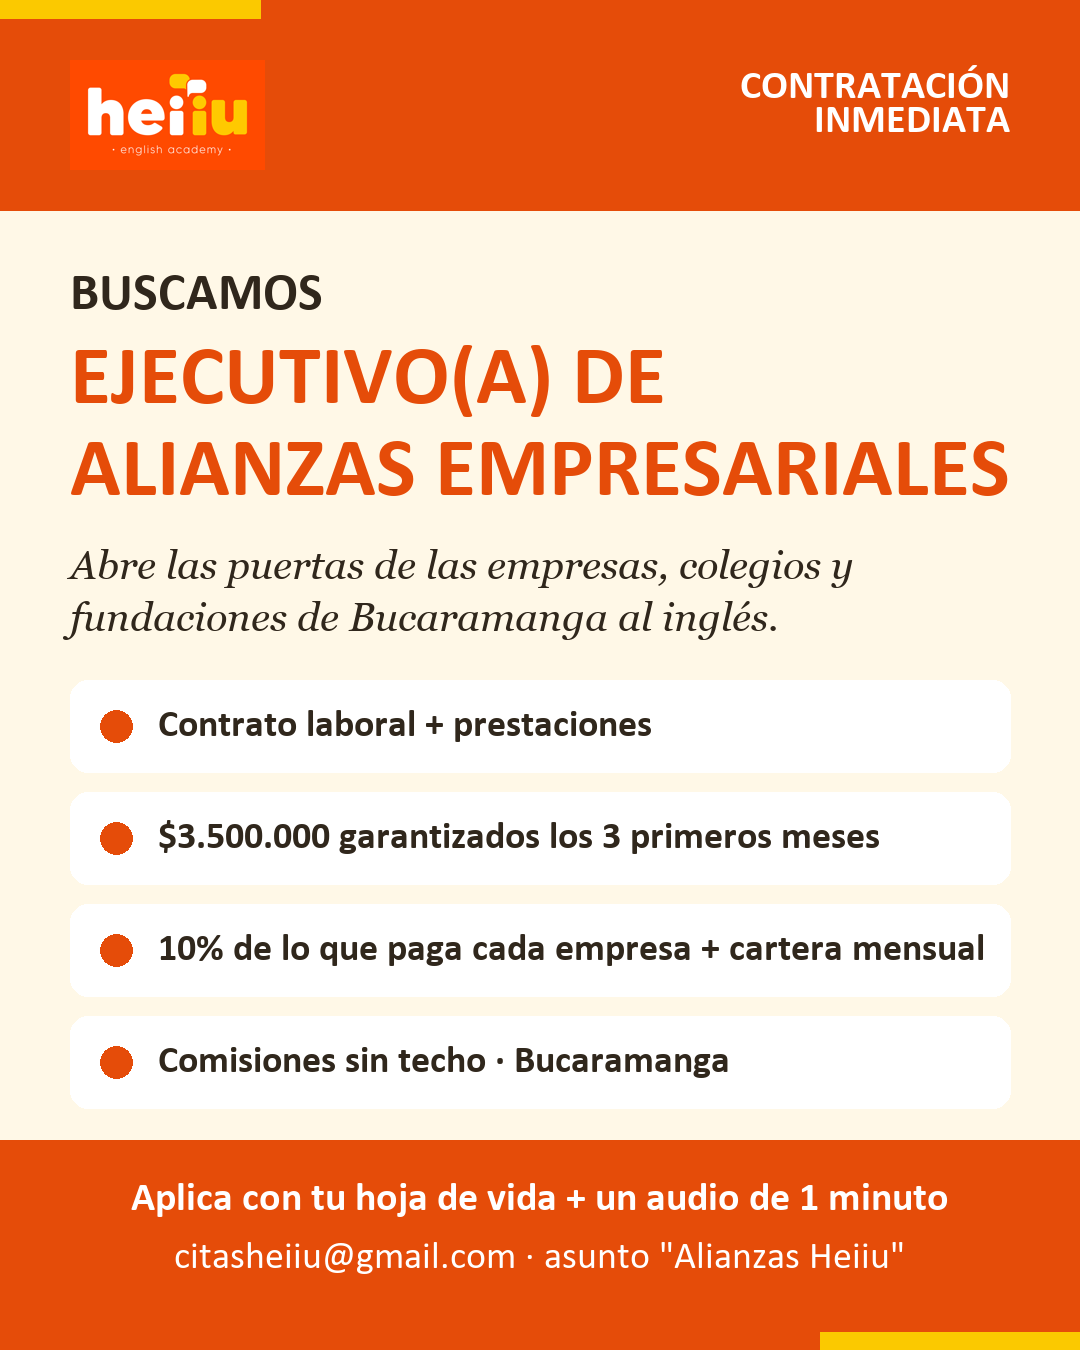
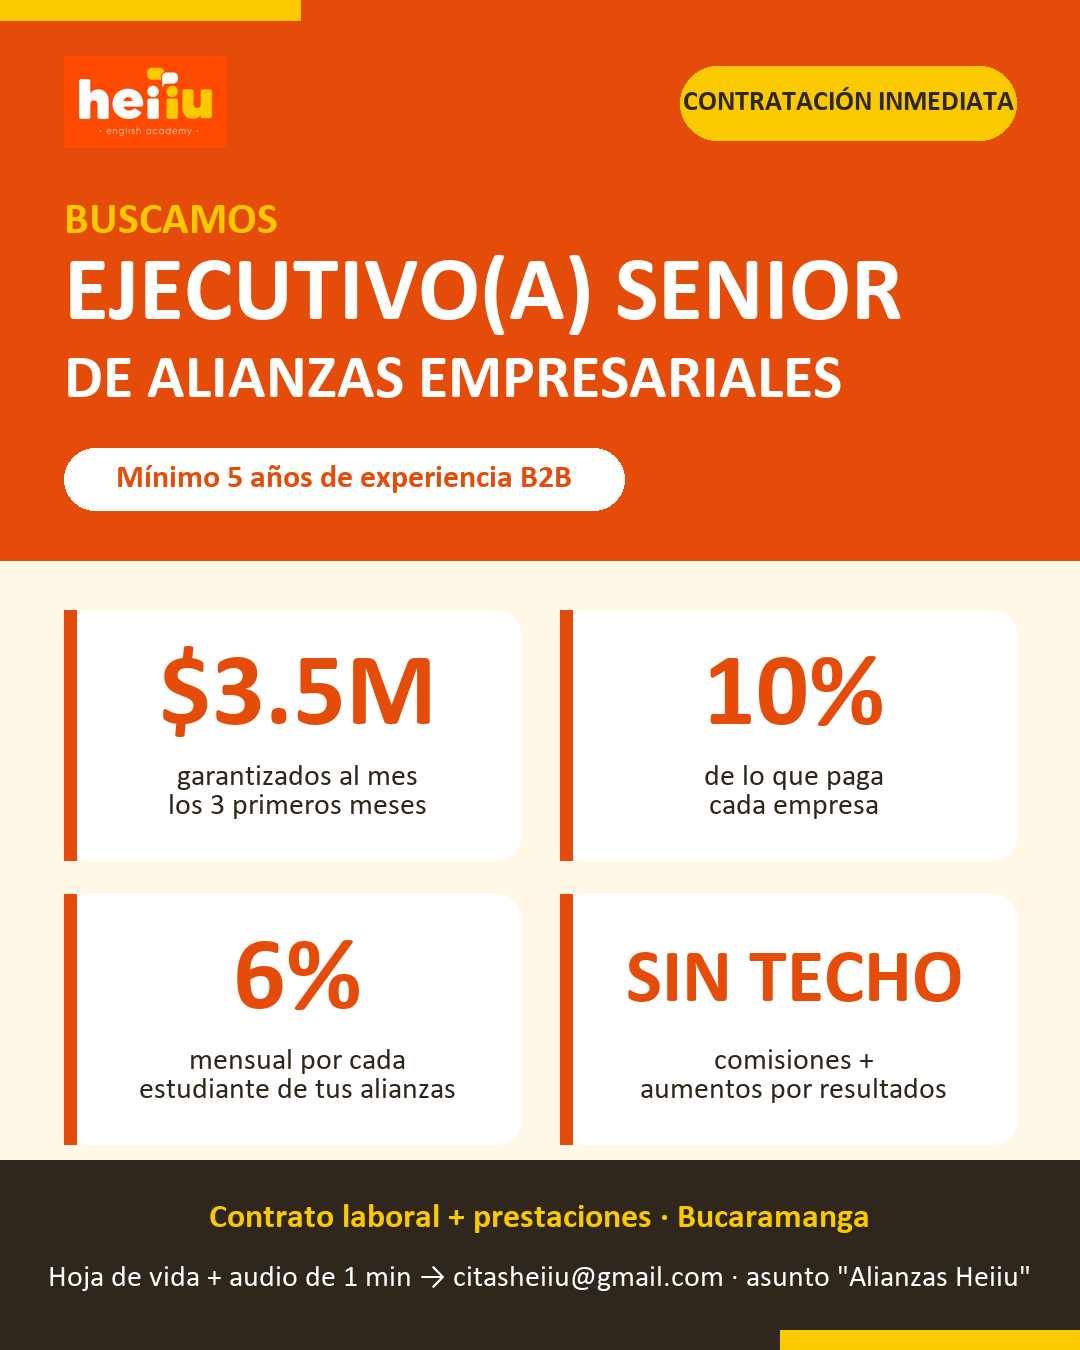
Vacante alianzas: Senior, minimo 5 anos, pieza con cifras

diff --git a/generadores/comercial/gen_post_linkedin_alianzas.py b/generadores/comercial/gen_post_linkedin_alianzas.py
@@ -1,5 +1,5 @@
 # -*- coding: utf-8 -*-
-"""Post y kit de publicación de la vacante Ejecutivo(a) de Alianzas Empresariales (LinkedIn, redes, portales).
+"""Post y kit de publicación de la vacante Ejecutivo(a) Senior de Alianzas Empresariales (LinkedIn, redes, portales).
 Base: PROPUESTA_EJECUTIVA_ALIANZAS.pdf. Mismo formato que POST_LINKEDIN_VACANTE*.xlsx.
 Salida: recursos/comercial/INDUCCION_COMERCIAL/contratacion comercial/POST_LINKEDIN_VACANTE_ALIANZAS.xlsx"""
 from openpyxl import Workbook
@@ -18,7 +18,7 @@ def hoja(nombre, lineas, ancho=120, primera=False):
 
 hoja('POST LINKEDIN', [
  'Busco a la persona que abra las puertas de las empresas, los colegios y las fundaciones de Bucaramanga al inglés.',
- 'En Heiiu English Academy abrimos UNA vacante de CONTRATACIÓN INMEDIATA: Ejecutivo(a) de Alianzas Empresariales.',
+ 'En Heiiu English Academy abrimos UNA vacante de CONTRATACIÓN INMEDIATA: Ejecutivo(a) Senior de Alianzas Empresariales.',
  'Te lo digo de frente, como le hablamos a nuestros estudiantes: este cargo es de calle y de relaciones con quien decide. Gerentes, talento humano, bienestar, rectores y fundaciones. No atiendes citas que llegan por anuncios: tú construyes el canal corporativo e institucional, y lo haces tuyo.',
  'QUÉ VAS A LLEVAR A LAS EMPRESAS',
  'No vendemos clases de inglés. Formamos personas: inglés con garantía de aprendizaje por escrito, formación en virtudes y hábitos en cada clase, y resultados que se pueden mostrar (la página web propia del estudiante, su pitch de negocio en inglés o su video para una vacante). Con el respaldo de una academia presencial con licencia desde 2012, triple certificación ICONTEC (NTC 5555, NTC 5580 e ISO 9001) y convenio con Cajasan. Las ofertas, el convenio y los precios ya están escritos: alianza sin costo para la empresa y plan empresa por volumen.',
@@ -29,7 +29,7 @@ hoja('POST LINKEDIN', [
  '✔ Metas trimestrales claras, acelerador por sobrecumplimiento y aumentos de básico por resultados.',
  '✔ Un equipo que te apoya en las activaciones desde el primer día, y la posibilidad de crecer hacia liderar un equipo comercial o nuevas sedes.',
  'QUÉ BUSCAMOS',
- '• Experiencia en alianzas estratégicas, convenios o venta corporativa (B2B), idealmente en educación, salud, seguros o servicios.',
+ '• Mínimo 5 años de experiencia en alianzas estratégicas, convenios o venta corporativa (B2B), idealmente en educación, salud, seguros o servicios.',
  '• Relacionamiento con gerencias, áreas de talento humano y bienestar; deseable experiencia con colegios, fundaciones o contratación pública.',
  '• Ritmo: hablar cada día con quien decide en al menos dos empresas nuevas.',
  '• Disciplina de registro: lo que no está en el tablero, no existe.',
@@ -43,8 +43,8 @@ hoja('POST LINKEDIN', [
 
 hoja('PIEZA GRAFICA', [
  'TEXTO PARA LA PIEZA GRÁFICA (imagen del post)',
- 'Titular: BUSCAMOS EJECUTIVO(A) DE ALIANZAS EMPRESARIALES',
- 'Subtítulo: Abre las puertas de las empresas de Bucaramanga al inglés. CONTRATACIÓN INMEDIATA.',
+ 'Titular: BUSCAMOS EJECUTIVO(A) SENIOR DE ALIANZAS EMPRESARIALES',
+ 'Subtítulo: Mínimo 5 años de experiencia B2B. CONTRATACIÓN INMEDIATA.',
  '· Contrato laboral + prestaciones',
  '· $3.500.000 garantizados los 3 primeros meses',
  '· 10% de lo que paga cada empresa + cartera mensual',
@@ -55,7 +55,7 @@ hoja('PIEZA GRAFICA', [
 
 hoja('PARA BRIAN', [
  'PARA BRIAN — SOLO LINKEDIN Y REDES',
- '1. PIEZA PRINCIPAL: crear la vacante gratuita en LinkedIn Empleos desde la página de empresa de Heiiu, con el texto del post (título: Ejecutivo(a) de Alianzas Empresariales — Contratación inmediata · ubicación: Bucaramanga · presencial · tiempo completo). Aparece por búsqueda, no depende de seguidores.',
+ '1. PIEZA PRINCIPAL: crear la vacante gratuita en LinkedIn Empleos desde la página de empresa de Heiiu, con el texto del post (título: Ejecutivo(a) Senior de Alianzas Empresariales — Contratación inmediata · ubicación: Bucaramanga · presencial · tiempo completo). Aparece por búsqueda, no depende de seguidores.',
  '2. Publicar el post en la página de Heiiu con la pieza gráfica, y compartirlo desde su perfil como apoyo, siempre enlazando a la vacante oficial.',
  '3. Replicar la pieza gráfica en Instagram y Facebook de la academia.',
  '4. Si se le pone pauta: segmentar Bucaramanga y área metropolitana; cargos actuales tipo ejecutivo de cuenta corporativa, gerente comercial, director comercial, ejecutivo de alianzas, desarrollo de negocios, key account manager; sectores educación, salud prepagada y asistencia médica, seguros, cajas de compensación, servicios empresariales.',
@@ -66,12 +66,12 @@ hoja('PORTALES (ACADEMIA)', [
  'PORTALES DE EMPLEO GRATUITOS — LOS PUBLICA LA ACADEMIA, NO BRIAN',
  'Dónde: Computrabajo · Magneto · elempleo · Servicio Público de Empleo (Agencia de Cajasan o Comfenalco) · grupos de empleo de Bucaramanga en Facebook · grupos de egresados de administración y mercadeo (UNAB, UIS, UPB, Santo Tomás).',
  'Datos para llenar los formularios:',
- '· Cargo: Ejecutivo(a) de Alianzas Empresariales',
+ '· Cargo: Ejecutivo(a) Senior de Alianzas Empresariales',
  '· Empresa: Heiiu English Academy (Global Teacher S.A.S.)',
  '· Ciudad: Bucaramanga y área metropolitana · tiempo completo · trabajo de campo',
  '· Contrato: laboral, con período de prueba de ley · CONTRATACIÓN INMEDIATA',
  '· Salario: básico (SMMLV + auxilio) + comisiones sin techo; ingreso mínimo garantizado de $3.500.000 los 3 primeros meses según indicadores',
- '· Experiencia: alianzas, convenios o venta corporativa B2B',
+ '· Experiencia: mínimo 5 años en alianzas, convenios o venta corporativa B2B',
  '· Descripción: copiar el texto de la hoja POST LINKEDIN, sin los hashtags.',
  f'· Contacto: {EMAIL}, asunto "{ASUNTO}".',
  'Filtro al recibir: quien no mande el audio o video de 1 minuto queda descartado sin revisar. A los que sí lo manden se les envía la PROPUESTA_EJECUTIVA_ALIANZAS.pdf y se agenda la entrevista con la simulación (presentar la alianza a "un gerente de una empresa de 40 empleados").',

diff --git a/generadores/comercial/gen_pieza_vacante_alianzas.py b/generadores/comercial/gen_pieza_vacante_alianzas.py
@@ -1,5 +1,5 @@
 # -*- coding: utf-8 -*-
-"""Pieza gráfica 1080x1350 (LinkedIn / Instagram) — vacante Ejecutivo(a) de Alianzas Empresariales.
+"""Pieza gráfica 1080x1350 (LinkedIn / Instagram) — vacante Ejecutivo(a) Senior de Alianzas Empresariales. Cifras como protagonistas.
 Salida: recursos/comercial/INDUCCION_COMERCIAL/contratacion comercial/PIEZA_VACANTE_ALIANZAS.png"""
 import os
 from PIL import Image, ImageDraw, ImageFont
@@ -11,50 +11,48 @@ def font(n, s): return ImageFont.truetype(F + n, s)
 W, H = 1080, 1350
 im = Image.new('RGB', (W, H), CREMA); d = ImageDraw.Draw(im)
 
-# franja superior naranja con logo
-d.rectangle([0, 0, W, 210], fill=NAR)
-d.rectangle([0, 0, 260, 18], fill=AMAR)
+# ---- bloque superior naranja ----
+TOP = 560
+d.rectangle([0, 0, W, TOP], fill=NAR)
+d.rectangle([0, 0, 300, 20], fill=AMAR)
 try:
     logo = Image.open(os.path.join(BASE, r'recursos\marca heiiu\logo_heiiu_sobre_naranja.png')).convert('RGBA')
-    lh = 110; lw = int(logo.width * lh / logo.height); logo = logo.resize((lw, lh))
-    im.paste(logo, (70, 60), logo)
-except Exception as e:
-    d.text((70, 70), 'Heiiu', font=font('calibrib.ttf', 90), fill=BLANCO)
-d.text((W - 70, 105), 'CONTRATACIÓN\nINMEDIATA', font=font('calibrib.ttf', 40), fill=BLANCO, anchor='rm', align='right')
+    lh = 92; lw = int(logo.width * lh / logo.height); logo = logo.resize((lw, lh))
+    im.paste(logo, (64, 56), logo)
+except Exception:
+    d.text((64, 60), 'Heiiu', font=font('calibrib.ttf', 80), fill=BLANCO)
+# sello contratación inmediata
+d.rounded_rectangle([W - 400, 66, W - 64, 140], radius=37, fill=AMAR)
+d.text((W - 232, 103), 'CONTRATACIÓN INMEDIATA', font=font('calibrib.ttf', 28), fill=CAFE, anchor='mm')
 
-def wrap(text, fnt, maxw):
-    words, lines, cur = text.split(), [], ''
-    for w in words:
-        t = (cur + ' ' + w).strip()
-        if d.textlength(t, font=fnt) <= maxw: cur = t
-        else: lines.append(cur); cur = w
-    lines.append(cur); return lines
+d.text((64, 200), 'BUSCAMOS', font=font('calibrib.ttf', 44), fill=AMAR)
+d.text((64, 250), 'EJECUTIVO(A) SENIOR', font=font('calibrib.ttf', 92), fill=BLANCO)
+d.text((64, 350), 'DE ALIANZAS EMPRESARIALES', font=font('calibrib.ttf', 62), fill=BLANCO)
+d.rounded_rectangle([64, 448, 64 + 560, 510], radius=31, fill=BLANCO)
+d.text((64 + 280, 479), 'Mínimo 5 años de experiencia B2B', font=font('calibrib.ttf', 32), fill=NAR, anchor='mm')
 
-y = 270
-d.text((70, y), 'BUSCAMOS', font=font('calibrib.ttf', 52), fill=CAFE); y += 70
-for line in wrap('EJECUTIVO(A) DE ALIANZAS EMPRESARIALES', font('calibrib.ttf', 84), W - 140):
-    d.text((70, y), line, font=font('calibrib.ttf', 84), fill=NAR); y += 92
-y += 18
-for line in wrap('Abre las puertas de las empresas, colegios y fundaciones de Bucaramanga al inglés.', font('georgiai.ttf', 40), W - 140):
-    d.text((70, y), line, font=font('georgiai.ttf', 40), fill=CAFE); y += 52
-y += 34
+# ---- tarjetas de cifras (2x2) ----
+cards = [('$3.5M', 'garantizados al mes\nlos 3 primeros meses'),
+         ('10%', 'de lo que paga\ncada empresa'),
+         ('6%', 'mensual por cada\nestudiante de tus alianzas'),
+         ('SIN TECHO', 'comisiones +\naumentos por resultados')]
+cw, ch, gx, gy = 456, 250, 40, 34
+x0, y0 = 64, TOP + 50
+for i, (num, lab) in enumerate(cards):
+    x = x0 + (i % 2) * (cw + gx); y = y0 + (i // 2) * (ch + gy)
+    d.rounded_rectangle([x, y, x + cw, y + ch], radius=24, fill=BLANCO)
+    d.rectangle([x, y, x + 12, y + ch], fill=NAR)
+    size = 104 if len(num) <= 5 else 76
+    d.text((x + cw // 2 + 6, y + 88), num, font=font('calibrib.ttf', size), fill=NAR, anchor='mm')
+    d.multiline_text((x + cw // 2 + 6, y + 182), lab, font=font('calibri.ttf', 30), fill=CAFE, anchor='mm', align='center', spacing=6)
 
-items = ['Contrato laboral + prestaciones',
-         '$3.500.000 garantizados los 3 primeros meses',
-         '10% de lo que paga cada empresa + cartera mensual',
-         'Comisiones sin techo · Bucaramanga']
-for it in items:
-    d.rounded_rectangle([70, y, W - 70, y + 92], radius=18, fill=BLANCO)
-    d.ellipse([100, y + 30, 132, y + 62], fill=NAR)
-    d.text((158, y + 46), it, font=font('calibrib.ttf', 38), fill=CAFE, anchor='lm')
-    y += 112
-
-# cierre
-d.rectangle([0, H - 210, W, H], fill=NAR)
-d.text((W // 2, H - 150), 'Aplica con tu hoja de vida + un audio de 1 minuto', font=font('calibrib.ttf', 40), fill=BLANCO, anchor='mm')
-d.text((W // 2, H - 92), 'citasheiiu@gmail.com · asunto "Alianzas Heiiu"', font=font('calibri.ttf', 38), fill=BLANCO, anchor='mm')
-d.rectangle([W - 260, H - 18, W, H], fill=AMAR)
+# ---- pie ----
+FY = H - 190
+d.rectangle([0, FY, W, H], fill=CAFE)
+d.text((W // 2, FY + 58), 'Contrato laboral + prestaciones · Bucaramanga', font=font('calibrib.ttf', 34), fill=AMAR, anchor='mm')
+d.text((W // 2, FY + 118), 'Hoja de vida + audio de 1 min → citasheiiu@gmail.com · asunto "Alianzas Heiiu"', font=font('calibri.ttf', 30), fill=BLANCO, anchor='mm')
+d.rectangle([W - 300, H - 20, W, H], fill=AMAR)
 
 out = os.path.join(BASE, r'recursos\comercial\INDUCCION_COMERCIAL\contratacion comercial\PIEZA_VACANTE_ALIANZAS.png')
 try: im.save(out); print('OK', out)
-except PermissionError: im.save(out.replace('.png', '_v2.png')); print('ABIERTO -> _v2')
+except (PermissionError, OSError): im.save(out.replace('.png', '_v2.png')); print('ABIERTO -> _v2')
